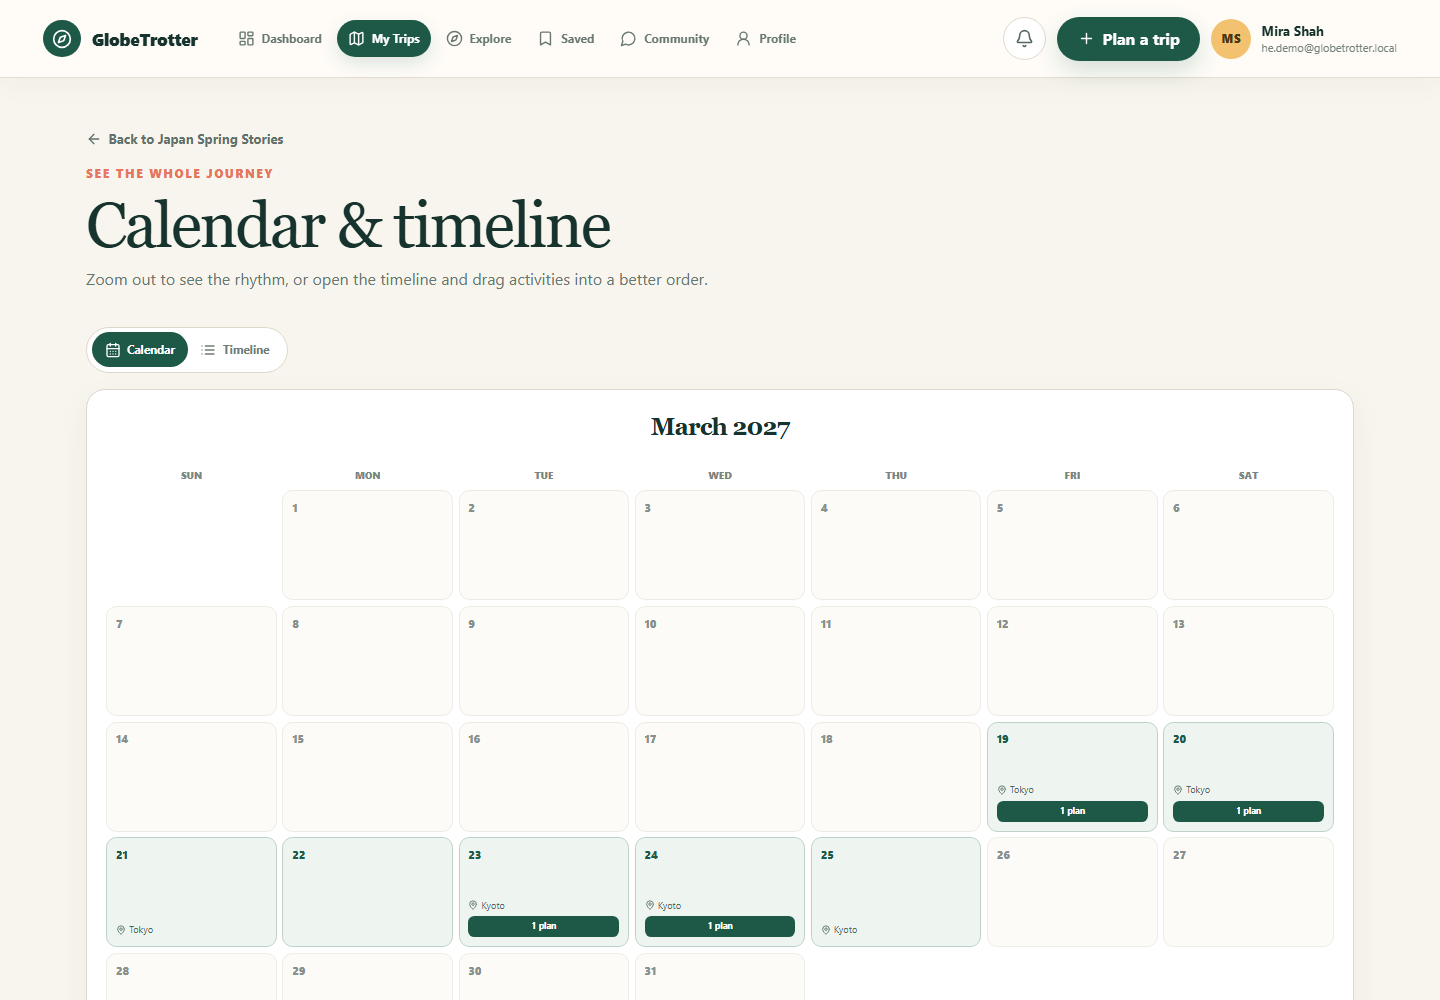
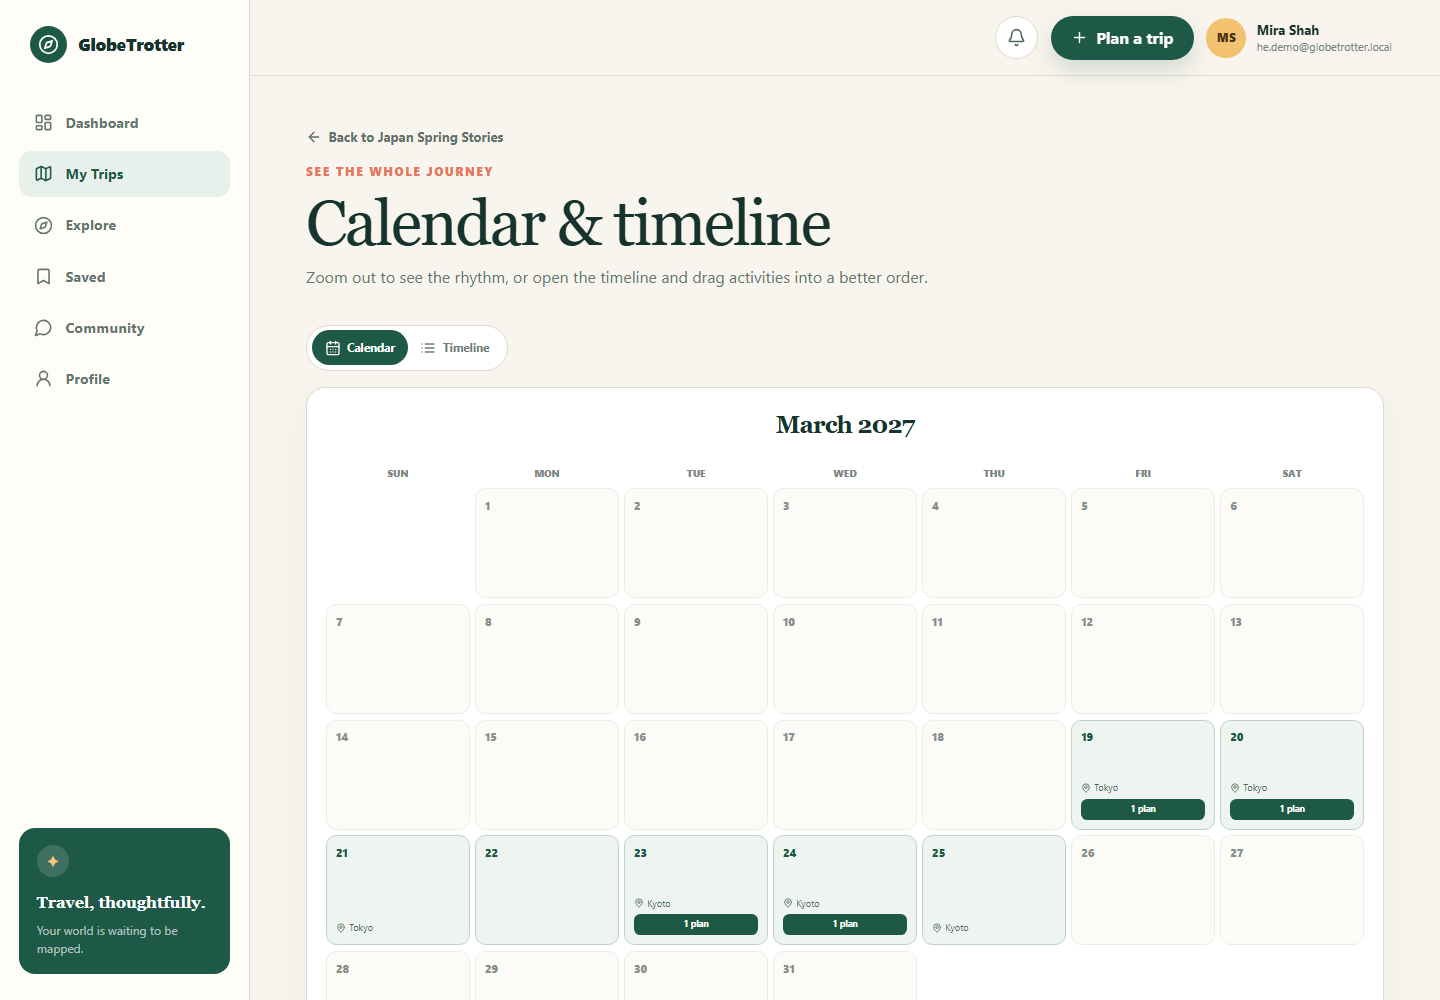
Revert "refactor(nav) : changed side nav to to navbar"
This reverts commit a981e9058aa2172be1e92ed68266b4d26193047c.

diff --git a/test-reports/e2e/html/index.html b/test-reports/e2e/html/index.html
@@ -46,4 +46,4 @@ Error generating stack: `+e.message+`
     <div id='root'></div>
   </body>
 </html>
[2 lines of base64/hex data omitted]

diff --git a/app/globals.css b/app/globals.css
@@ -102,15 +102,21 @@ h1, h2 { font-family: var(--font-display), serif; letter-spacing: -0.035em; }
 @keyframes spin { to { transform: rotate(360deg); } }
 
 /* App shell */
-.app-frame { min-height: 100vh; background: #f8f5ee; }
-.app-header { position: sticky; z-index: 20; top: 0; display: flex; height: 78px; align-items: center; gap: clamp(.8rem,2vw,1.8rem); border-bottom: 1px solid rgba(222,216,203,.84); padding: 0 clamp(1rem,3vw,3rem); background: rgba(255,253,248,.91); box-shadow: 0 8px 28px rgba(22,50,42,.035); backdrop-filter: blur(18px); }
-.header-brand { flex: 0 0 auto; white-space: nowrap; }
-.top-nav { display: flex; min-width: 0; align-items: center; gap: .2rem; }
-.nav-link { display: flex; align-items: center; gap: .42rem; border-radius: 999px; padding: .58rem .72rem; color: #687871; font-size: .74rem; font-weight: 750; white-space: nowrap; transition: color .18s, background .18s, transform .18s; }
-.nav-link:hover { background: #f0ece3; color: var(--ink); transform: translateY(-1px); }
-.nav-link-active { background: var(--forest); color: white; box-shadow: 0 7px 18px rgba(30,89,72,.15); }
-.nav-link-active:hover { background: #174c3e; color: white; }
-.app-header-actions { display: flex; margin-left: auto; align-items: center; gap: .7rem; }
+.app-frame { display: grid; min-height: 100vh; grid-template-columns: 250px 1fr; background: #f8f5ee; }
+.sidebar { position: sticky; top: 0; display: flex; height: 100vh; flex-direction: column; border-right: 1px solid var(--line); padding: 1.6rem 1.2rem; background: var(--cream); }
+.sidebar .brand { margin: 0 .65rem 2.3rem; }
+.sidebar-nav { display: grid; gap: .35rem; }
+.nav-link { display: flex; align-items: center; gap: .8rem; border-radius: .8rem; padding: .75rem .9rem; color: #65756f; font-size: .9rem; font-weight: 650; }
+.nav-link:hover { background: #f4efe5; color: var(--ink); }
+.nav-link-active { background: #e8f0eb; color: var(--forest); }
+.sidebar-note { margin-top: auto; border-radius: 1rem; padding: 1.1rem; background: var(--forest); color: white; }
+.sidebar-note-icon { display: grid; width: 2rem; height: 2rem; margin-bottom: .8rem; place-items: center; border-radius: 50%; background: rgba(255,255,255,.14); color: #f8c77a; }
+.sidebar-note strong { font-family: var(--font-display); }
+.sidebar-note p { margin: .35rem 0 0; color: rgba(255,255,255,.65); font-size: .75rem; line-height: 1.5; }
+.app-main { min-width: 0; }
+.app-header { position: sticky; z-index: 20; top: 0; display: flex; height: 76px; align-items: center; gap: .8rem; border-bottom: 1px solid rgba(222,216,203,.8); padding: 0 clamp(1.2rem,4vw,3rem); background: rgba(248,245,238,.88); backdrop-filter: blur(18px); }
+.app-header-spacer { flex: 1; }
+.mobile-brand { display: none; }
 .icon-button, .icon-link { display: grid; width: 2.7rem; height: 2.7rem; place-items: center; border: 1px solid var(--line); border-radius: 50%; background: white; color: #536760; }
 .user-menu { position: relative; }
 .user-menu summary { display: flex; align-items: center; gap: .65rem; cursor: pointer; list-style: none; }
@@ -123,7 +129,8 @@ h1, h2 { font-family: var(--font-display), serif; letter-spacing: -0.035em; }
 .user-menu-popover { position: absolute; top: calc(100% + .8rem); right: 0; width: 190px; overflow: hidden; border: 1px solid var(--line); border-radius: .8rem; background: white; box-shadow: 0 18px 45px rgba(23,51,45,.13); }
 .user-menu-popover a, .user-menu-popover button { display: block; width: 100%; border: 0; padding: .8rem 1rem; background: transparent; color: var(--ink); cursor: pointer; text-align: left; font-size: .82rem; }
 .user-menu-popover a:hover, .user-menu-popover button:hover { background: #f7f2e9; }
-.content { width: min(1380px, 100%); margin: auto; padding: 3.2rem clamp(1.2rem,4vw,3.5rem) 5rem; }
+.mobile-nav { display: none; }
+.content { width: min(1280px, 100%); margin: auto; padding: 3.2rem clamp(1.2rem,4vw,3.5rem) 5rem; }
 .page-header { display: flex; align-items: flex-end; justify-content: space-between; gap: 2rem; margin-bottom: 2.2rem; }
 .page-header h1 { margin-bottom: .55rem; font-size: clamp(2.4rem,5vw,4rem); font-weight: 500; line-height: 1; }
 .page-header > div > p:last-child { max-width: 650px; margin: 0; color: #677771; line-height: 1.6; }
@@ -228,7 +235,7 @@ h1, h2 { font-family: var(--font-display), serif; letter-spacing: -0.035em; }
   .postcard-top { right: -2%; }
   .postcard-bottom { left: 0; }
   .trip-grid { grid-template-columns: repeat(2,minmax(0,1fr)); }
-  .top-nav .nav-link svg { display: none; }
+  .app-frame { grid-template-columns: 220px 1fr; }
 }
 @media (max-width: 800px) {
   .landing-nav { padding: 1.2rem; }
@@ -239,14 +246,14 @@ h1, h2 { font-family: var(--font-display), serif; letter-spacing: -0.035em; }
   .auth-page { grid-template-columns: 1fr; }
   .auth-story { display: none; }
   .auth-panel { min-height: 100vh; padding: 2rem 1.2rem; }
-  .app-header { height: auto; min-height: 66px; flex-wrap: wrap; gap: .6rem; padding: .65rem 1rem 0; }
-  .header-brand { min-height: 44px; }
-  .top-nav { order: 3; width: calc(100% + 2rem); overflow-x: auto; margin: 0 -1rem; border-top: 1px solid rgba(222,216,203,.72); padding: .48rem 1rem .62rem; scrollbar-width: none; }
-  .top-nav::-webkit-scrollbar { display: none; }
-  .top-nav .nav-link { flex: 0 0 auto; padding: .52rem .72rem; }
-  .top-nav .nav-link svg { display: block; }
+  .sidebar { display: none; }
+  .app-frame { display: block; }
+  .app-header { height: 66px; padding-inline: 1rem; }
+  .mobile-brand { display: flex; align-items: center; gap: .45rem; color: var(--forest); }
   .header-new-trip, .user-menu-copy { display: none; }
-  .content { padding: 2rem 1rem 5rem; }
+  .mobile-nav { position: fixed; z-index: 25; right: 0; bottom: 0; left: 0; display: grid; grid-template-columns: repeat(6,1fr); border-top: 1px solid var(--line); padding: .45rem max(.4rem, env(safe-area-inset-right)) calc(.4rem + env(safe-area-inset-bottom)) max(.4rem, env(safe-area-inset-left)); background: rgba(255,253,248,.94); backdrop-filter: blur(18px); }
+  .mobile-nav .nav-link { display: grid; justify-items: center; gap: .2rem; padding: .4rem .15rem; font-size: .59rem; }
+  .content { padding: 2rem 1rem 6.5rem; }
   .trip-facts { grid-template-columns: 1fr; }
 }
 @media (max-width: 580px) {

diff --git a/components/app-shell/app-shell.tsx b/components/app-shell/app-shell.tsx
@@ -7,19 +7,25 @@ import { initials } from "@/lib/utils";
 export function AppShell({ user, children }: { user: { name?: string | null; email?: string | null; image?: string | null; role?: string }; children: React.ReactNode }) {
   return (
     <div className="app-frame">
-      <header className="app-header">
-        <Link className="brand header-brand" href="/dashboard"><span className="brand-mark"><Compass size={20} /></span>GlobeTrotter</Link>
+      <aside className="sidebar">
+        <Link className="brand" href="/trips"><span className="brand-mark"><Compass size={21} /></span>GlobeTrotter</Link>
         <NavLinks />
-        <div className="app-header-actions">
+        <div className="sidebar-note"><span className="sidebar-note-icon">✦</span><strong>Travel, thoughtfully.</strong><p>Your world is waiting to be mapped.</p></div>
+      </aside>
+      <div className="app-main">
+        <header className="app-header">
+          <Link className="mobile-brand" href="/trips"><Compass size={22} /><strong>GlobeTrotter</strong></Link>
+          <div className="app-header-spacer" />
           <Link className="icon-button" href="/trips" aria-label="Notifications"><Bell size={19} /></Link>
           <Link className="button button-primary header-new-trip" href="/trips/new"><Plus size={17} /> Plan a trip</Link>
           <details className="user-menu">
             <summary aria-label="Open user menu"><span className="avatar">{initials(user.name)}</span><span className="user-menu-copy"><strong>{user.name}</strong><small>{user.email}</small></span></summary>
             <div className="user-menu-popover"><Link href="/profile">Profile & settings</Link>{user.role === "ADMIN" ? <Link href="/admin">Admin analytics</Link> : null}<form action={logoutAction}><button type="submit">Log out</button></form></div>
           </details>
-        </div>
-      </header>
-      <main className="content">{children}</main>
+        </header>
+        <main className="content">{children}</main>
+        <NavLinks mobile />
+      </div>
     </div>
   );
 }

diff --git a/components/app-shell/nav-links.tsx b/components/app-shell/nav-links.tsx
@@ -14,13 +14,13 @@ const links = [
   { href: "/profile", label: "Profile", icon: UserRound },
 ];
 
-export function NavLinks() {
+export function NavLinks({ mobile = false }: { mobile?: boolean }) {
   const pathname = usePathname();
   return (
-    <nav className="top-nav" aria-label="Application navigation">
+    <nav className={mobile ? "mobile-nav" : "sidebar-nav"} aria-label={mobile ? "Mobile navigation" : "Application navigation"}>
       {links.map(({ href, label, icon: Icon }) => {
         const active = pathname === href || (href === "/trips" && pathname.startsWith("/trips"));
-        return <Link key={href} href={href} className={cn("nav-link", active && "nav-link-active")} aria-current={active ? "page" : undefined}><Icon size={17} /><span>{label}</span></Link>;
+        return <Link key={href} href={href} className={cn("nav-link", active && "nav-link-active")} aria-current={active ? "page" : undefined}><Icon size={mobile ? 20 : 19} /><span>{label}</span></Link>;
       })}
     </nav>
   );
